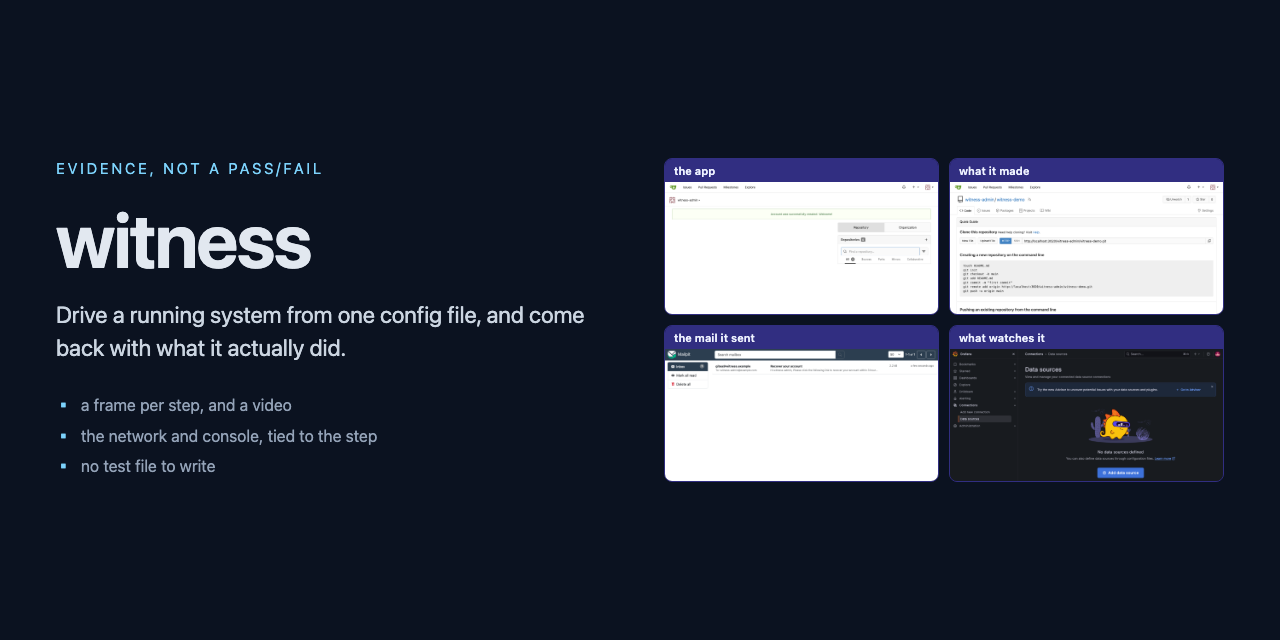
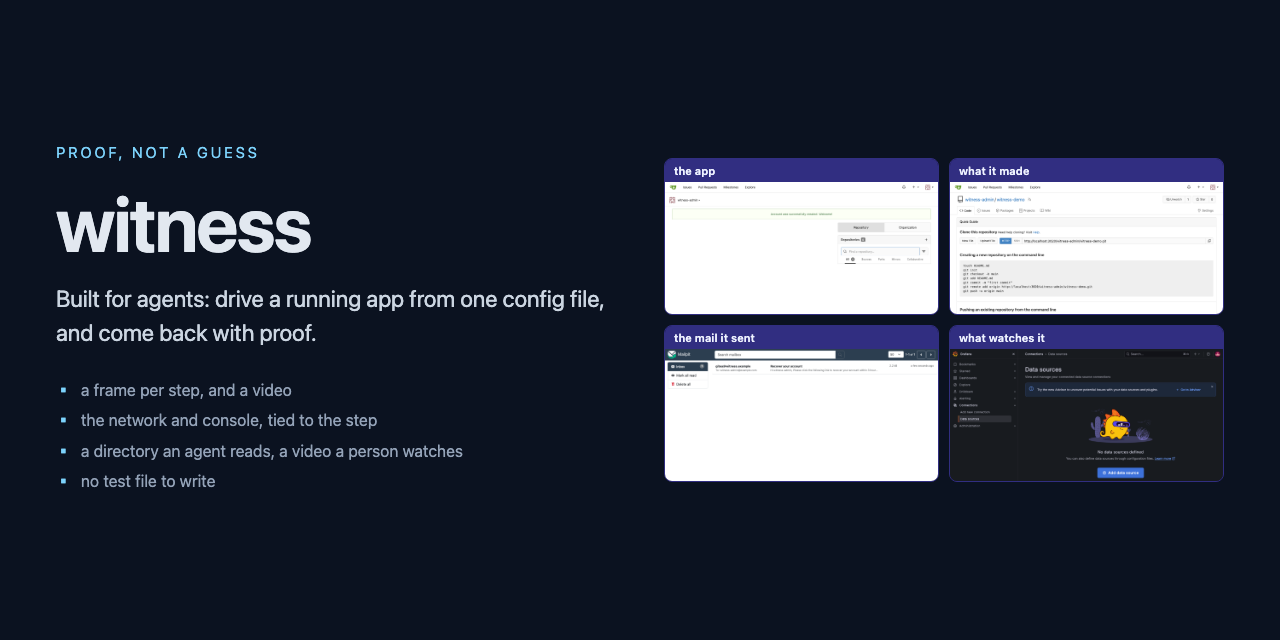
Say who is driving, on every front door
The internals have assumed an agent for a long time. skill.ts is "written for
an agent"; the-directory-is-the-tree.md justifies the artifact layout by an
agent listing a directory rather than opening a trace viewer; http.md and
cli.md both explain a design choice by what an agent cannot do.

None of the front doors said it. The README's first line, the GitHub
description and the package description all read "drive a running system from
one config file, and come back with evidence rather than a pass/fail" — true,
and silent on who is driving or what goes wrong when they cannot. The topics
carried no term an agent search would hit.

So the framing now says the thing the design already answers to: an agent
drives and debugs a running app, and what comes back is proof rather than a
green tick, because the alternative is inference — the build passed, the
handler looks right, the field is probably rendering — which is cheap,
confident, and indistinguishable from having looked.

"One artefact, two readers" is the sentence worth keeping: an agent gets there
by listing a directory, a person by opening the video beside it, and neither is
a by-product of making the other.

Claude-Session: https://claude.ai/code/session_017zot8EW5sUFNiuEr2WHsXf

Changed region(s): [[0.0312, 0.3125, 0.4688, 0.5625], [0.0625, 0.5938, 0.375, 0.7812], [0.0312, 0.2188, 0.25, 0.2812]]

diff --git a/docs/banner/banner.html b/docs/banner/banner.html
@@ -31,12 +31,13 @@
   </head>
   <body>
     <div>
-      <div class="kicker">evidence, not a pass/fail</div>
+      <div class="kicker">proof, not a guess</div>
       <h1>witness</h1>
-      <p>Drive a running system from one config file, and come back with what it actually did.</p>
+      <p>Built for agents: drive a running app from one config file, and come back with proof.</p>
       <ul>
         <li>a frame per step, and a video</li>
         <li>the network and console, tied to the step</li>
+        <li>a directory an agent reads, a video a person watches</li>
         <li>no test file to write</li>
       </ul>
     </div>

diff --git a/README.md b/README.md
@@ -8,11 +8,13 @@
 [![tests](https://img.shields.io/github/actions/workflow/status/burrows99/witness/tests.yml?branch=main&style=flat-square&label=tests)](https://github.com/burrows99/witness/actions/workflows/tests.yml)
 [![license](https://img.shields.io/github/license/burrows99/witness?style=flat-square)](LICENSE)
 
-Drive a running system from one config file, and come back with evidence rather than a pass/fail.
+Built for AI agents: drive and debug a running app from one config file, and come back with proof —
+watchable by a person, readable by an agent. Not a pass/fail, and not a guess.
 
-[Install](#install) · [Describe a product](#describe-a-product) · [Write an action](#write-an-action) ·
-[Run it](#run-it) · [What a run leaves behind](#what-a-run-leaves-behind) ·
-[Example](#example-four-services) · [When not to use this](#when-not-to-use-this)
+[Who is driving](#who-is-driving) · [Install](#install) · [Describe a product](#describe-a-product) ·
+[Write an action](#write-an-action) · [Run it](#run-it) ·
+[What a run leaves behind](#what-a-run-leaves-behind) · [Example](#example-four-services) ·
+[When not to use this](#when-not-to-use-this)
 
 Describe your product in `.witness/config.jsonc` — where the services are, what the API can be asked,
 what a person sees, what they can do — and drive it against the real thing: the containers on this
@@ -26,6 +28,7 @@ and nothing anyone can rerun.
 
 ## Table of Contents
 
+- [Who is driving](#who-is-driving)
 - [Install](#install)
 - [Describe a product](#describe-a-product)
 - [Write an action](#write-an-action)
@@ -38,6 +41,20 @@ and nothing anyone can rerun.
 - [Maintainers](#maintainers)
 - [Contributing](#contributing)
 - [License](#license)
+
+## Who is driving
+
+**Mostly an agent.** Something changes code and then has to answer *does it work* — and an agent
+cannot open a network tab, watch a screen, or scrub a video. What it can do is read a filesystem. So
+what it does instead is infer: the build passed, the handler looks right, the field is probably
+rendering. That inference is cheap, confident, and wrong often enough to matter — and from the
+outside it is indistinguishable from having actually looked.
+
+This closes that gap by making the looking mechanical. Every command prints the whole exchange, and
+every run writes a directory whose shape is the call tree: the requests with their bodies, a frame
+per step, the console and network tied to the step that was running, and a note in English. **One
+artefact, two readers** — an agent gets there by listing a directory, a person by opening the video
+beside it, and both are checking the same claim rather than trading assurances about it.
 
 ## Install
 

diff --git a/docs/explanation/evidence-not-passfail.md b/docs/explanation/evidence-not-passfail.md
@@ -28,6 +28,22 @@ comparison is the artefact; neither cut is more real than the other.
 **A retry does not erase its failure.** The failed attempt keeps its own directory. A green run with
 nothing to explain it is worse than a red one.
 
+## Who reads it
+
+**An agent, mostly — and a person checking the same thing.** They need different shapes of the same
+run, which is why one directory carries both.
+
+An agent cannot watch a video or open a network tab. It lists a directory, reads `debug.md`, and gets
+the requests, the console lines and the step each was tagged to. Denied that, it does the only thing
+left: it infers from the diff and the exit code and reports a conclusion it never checked. That
+failure mode is quiet — an inaccurate answer arrives in exactly the tone of an accurate one, and the
+reader downstream has no way to tell which they were handed.
+
+A person will not read forty JSON payloads. They open `video.mp4`, or the single frame the story
+names, and see it in a second.
+
+Neither reader is the secondary one, and neither artefact is a by-product of making the other.
+
 ## What it does not replace
 
 This is not a test runner and should not become one. There is no assertion library, no fixtures, no
@@ -35,4 +51,5 @@ sharding, no flake dashboard. When the question genuinely is *did the suite pass
 answers it better and is already installed.
 
 Reach for this when the answer needs to be **watchable** — a demo, a review, a bug report, a
-before/after — or when something that is not a person has to read it.
+before/after — or when the thing that has to read it is an agent, which cannot watch anything and has
+to be handed the same proof in a form it can parse.
